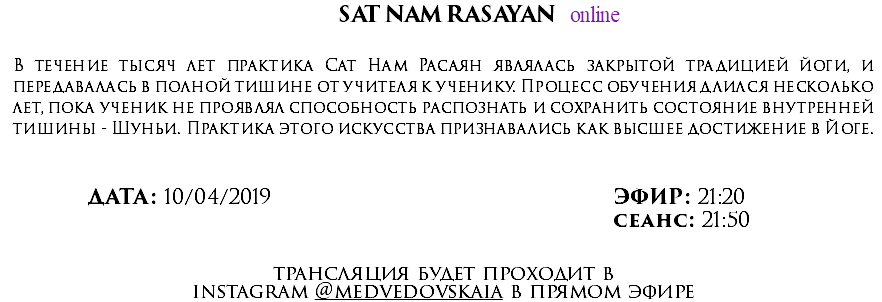
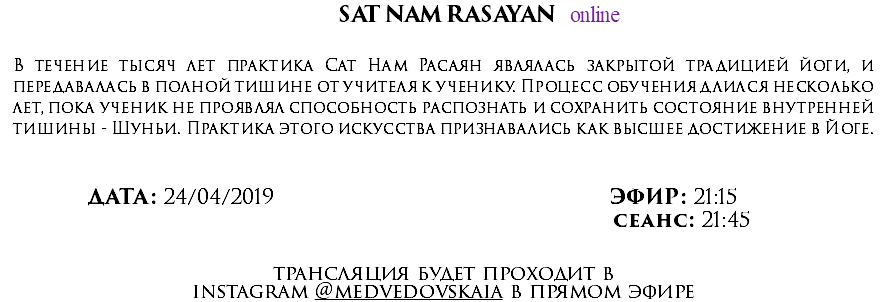
Add files via upload

Changed region(s): [[0.6735, 0.6258, 0.8571, 0.745], [0.1837, 0.6258, 0.3061, 0.6854]]

diff --git a/css/index.css b/css/index.css
@@ -1,1 +1,1 @@
-.version.index{color:#0000F5;background-color:#0FA6AF;}#page{z-index:1;width:1270px;min-height:550.8004999999991px;background-image:none;border-width:0px;border-color:#000000;background-color:transparent;padding-bottom:0px;margin-left:auto;margin-right:auto;}#page_position_content{margin-top:-437px;padding-bottom:62px;width:0.01px;}#ppamphletu1068{z-index:2;width:0.01px;margin-left:-188px;}#pamphletu1068{z-index:2;width:0.01px;height:46px;padding-bottom:540px;position:relative;margin-right:-10000px;margin-top:370px;left:676px;}#u1071{z-index:3;width:62px;height:47px;position:relative;margin-right:-10000px;margin-top:-1px;left:38px;}#u1073{position:absolute;width:60px;height:45px;border-style:solid;border-width:1px;border-color:#999999;background-color:#999999;}#u1073:hover{border-style:solid;border-width:1px;border-color:#6B6B6B;background-color:#999999;width:60px;height:45px;min-height:0px;margin:0px;}#u1073.PamphletThumbSelected{border-width:0px;border-color:transparent;background-color:transparent;width:60px;height:45px;min-height:0px;margin:1px;}#u1075{position:absolute;width:294px;height:154px;background-color:transparent;top:432px;}#u1075popup{z-index:5;}#u1078{z-index:6;width:294px;height:154px;border-width:0px;border-color:transparent;background-color:transparent;margin-right:-10000px;position:relative;}#pu349{z-index:12;width:0.01px;margin-right:-10000px;margin-left:40px;}#u349{z-index:12;width:112px;background-color:transparent;margin-left:62px;position:relative;}#pu944-5{z-index:7;width:0.01px;margin-top:-4px;}#u944-5{z-index:7;display:block;vertical-align:top;margin-bottom:-11px;position:relative;margin-right:-10000px;margin-top:-7px;left:-12px;}#u656{z-index:14;width:227px;min-height:52px;border-width:0px;border-color:transparent;background-color:transparent;opacity:0;-ms-filter:"progid:DXImageTransform.Microsoft.Alpha(Opacity=0)";filter:alpha(opacity=0);position:relative;margin-right:-10000px;left:1px;}.PamphletWidget .ThumbGroup .Thumb,.PamphletNextButton,.PamphletPrevButton,.PamphletCloseButton{cursor:pointer;}#pamphletu974{z-index:15;width:0.01px;height:11px;padding-bottom:1007px;position:relative;margin-right:-10000px;}#u977{z-index:16;width:18px;height:12px;position:relative;margin-right:-10000px;margin-top:-1px;left:-1px;}#u979{position:absolute;width:16px;height:10px;border-style:solid;border-width:1px;border-color:#999999;background-color:#999999;}#u979:hover{border-style:solid;border-width:1px;border-color:#6B6B6B;background-color:#999999;width:16px;height:10px;min-height:0px;margin:0px;}#u979.PamphletThumbSelected{border-width:0px;border-color:transparent;background-color:transparent;width:16px;height:10px;min-height:0px;margin:1px;}.ie #u1073.PamphletThumbSelected,.ie #u979.PamphletThumbSelected{background-color:#FFFFFF;opacity:0.01;-ms-filter:"progid:DXImageTransform.Microsoft.Alpha(Opacity=1)";filter:alpha(opacity=1);}#u981{position:absolute;width:1207px;height:596px;background-color:transparent;top:422px;left:212px;}#u981popup{z-index:18;}#u984{z-index:19;width:1207px;height:596px;border-width:0px;border-color:transparent;background-color:transparent;margin-right:-10000px;position:relative;}#pu334{z-index:20;width:0.01px;margin-right:-10000px;margin-top:29px;}#u334{z-index:20;width:294px;background-color:transparent;position:relative;margin-right:-10000px;margin-top:196px;}#u294{z-index:22;width:34px;background-color:transparent;position:relative;margin-right:-10000px;left:806px;}#u716{z-index:24;width:319px;height:442px;opacity:1;-ms-filter:"progid:DXImageTransform.Microsoft.Alpha(Opacity=100)";filter:alpha(opacity=100);position:relative;margin-right:-10000px;margin-top:125px;left:888px;background:transparent url("../images/dsc_00931_00000.png?crc=4126078890") no-repeat left top;background-size:contain;}#u834{z-index:25;width:261px;border-width:0px;border-color:transparent;background-color:transparent;position:relative;margin-right:-10000px;margin-top:161px;left:491px;}#pu818-13{z-index:26;width:0.01px;margin-right:-10000px;}#u818-13{z-index:26;display:block;vertical-align:top;position:relative;margin-right:-10000px;}#u823{z-index:39;width:81px;height:3px;background-color:#FFACA9;opacity:0.82;-ms-filter:"progid:DXImageTransform.Microsoft.Alpha(Opacity=82)";filter:alpha(opacity=82);position:relative;margin-right:-10000px;margin-top:18px;left:173px;}#u344-4{z-index:40;display:block;vertical-align:top;position:relative;margin-right:-10000px;margin-top:313px;left:345px;}#u170-28{z-index:44;display:block;vertical-align:top;position:relative;margin-right:-10000px;left:175px;}.css_verticalspacer .verticalspacer{height:calc(100vh - 642px);}#muse_css_mq,.html{background-color:#FFFFFF;}body{position:relative;min-width:1270px;}
+.version.index{color:#00000F;background-color:#981E0D;}#page{z-index:1;width:1270px;min-height:550.9005000000002px;background-image:none;border-width:0px;border-color:#000000;background-color:transparent;padding-bottom:0px;margin-left:auto;margin-right:auto;}#page_position_content{margin-top:-437px;padding-bottom:62px;width:0.01px;}#ppamphletu1068{z-index:2;width:0.01px;margin-left:-188px;}#pamphletu1068{z-index:2;width:0.01px;height:46px;padding-bottom:540px;position:relative;margin-right:-10000px;margin-top:370px;left:676px;}#u1071{z-index:3;width:62px;height:47px;position:relative;margin-right:-10000px;margin-top:-1px;left:38px;}#u1073{position:absolute;width:60px;height:45px;border-style:solid;border-width:1px;border-color:#999999;background-color:#999999;}#u1073:hover{border-style:solid;border-width:1px;border-color:#6B6B6B;background-color:#999999;width:60px;height:45px;min-height:0px;margin:0px;}#u1073.PamphletThumbSelected{border-width:0px;border-color:transparent;background-color:transparent;width:60px;height:45px;min-height:0px;margin:1px;}#u1075{position:absolute;width:294px;height:154px;background-color:transparent;top:432px;}#u1075popup{z-index:5;}#u1078{z-index:6;width:294px;height:154px;border-width:0px;border-color:transparent;background-color:transparent;margin-right:-10000px;position:relative;}#pu349{z-index:12;width:0.01px;margin-right:-10000px;margin-left:40px;}#u349{z-index:12;width:112px;background-color:transparent;margin-left:62px;position:relative;}#pu944-5{z-index:7;width:0.01px;margin-top:-4px;}#u944-5{z-index:7;display:block;vertical-align:top;margin-bottom:-11px;position:relative;margin-right:-10000px;margin-top:-7px;left:-12px;}#u656{z-index:14;width:227px;min-height:52px;border-width:0px;border-color:transparent;background-color:transparent;opacity:0;-ms-filter:"progid:DXImageTransform.Microsoft.Alpha(Opacity=0)";filter:alpha(opacity=0);position:relative;margin-right:-10000px;left:1px;}.PamphletWidget .ThumbGroup .Thumb,.PamphletNextButton,.PamphletPrevButton,.PamphletCloseButton{cursor:pointer;}#pamphletu974{z-index:15;width:0.01px;height:11px;padding-bottom:1011px;position:relative;margin-right:-10000px;}#u977{z-index:16;width:18px;height:12px;position:relative;margin-right:-10000px;margin-top:-1px;left:-1px;}#u979{position:absolute;width:16px;height:10px;border-style:solid;border-width:1px;border-color:#999999;background-color:#999999;}#u979:hover{border-style:solid;border-width:1px;border-color:#6B6B6B;background-color:#999999;width:16px;height:10px;min-height:0px;margin:0px;}#u979.PamphletThumbSelected{border-width:0px;border-color:transparent;background-color:transparent;width:16px;height:10px;min-height:0px;margin:1px;}.ie #u1073.PamphletThumbSelected,.ie #u979.PamphletThumbSelected{background-color:#FFFFFF;opacity:0.01;-ms-filter:"progid:DXImageTransform.Microsoft.Alpha(Opacity=1)";filter:alpha(opacity=1);}#u981{position:absolute;width:1207px;height:600px;background-color:transparent;top:422px;left:212px;}#u981popup{z-index:18;}#u984{z-index:19;width:1207px;height:596px;border-width:0px;border-color:transparent;background-color:transparent;padding-bottom:4px;margin-right:-10000px;position:relative;}#pu334{z-index:20;width:0.01px;margin-right:-10000px;margin-top:29px;}#u334{z-index:20;width:294px;background-color:transparent;position:relative;margin-right:-10000px;margin-top:196px;}#u294{z-index:22;width:34px;background-color:transparent;position:relative;margin-right:-10000px;left:806px;}#u716{z-index:24;width:319px;height:442px;opacity:1;-ms-filter:"progid:DXImageTransform.Microsoft.Alpha(Opacity=100)";filter:alpha(opacity=100);position:relative;margin-right:-10000px;margin-top:125px;left:888px;background:transparent url("../images/dsc_00931_00000.png?crc=4126078890") no-repeat left top;background-size:contain;}#u834{z-index:25;width:261px;border-width:0px;border-color:transparent;background-color:transparent;position:relative;margin-right:-10000px;margin-top:161px;left:491px;}#pu818-13{z-index:26;width:0.01px;margin-right:-10000px;}#u818-13{z-index:26;display:block;vertical-align:top;position:relative;margin-right:-10000px;}#u823{z-index:39;width:81px;height:3px;background-color:#FFACA9;opacity:0.82;-ms-filter:"progid:DXImageTransform.Microsoft.Alpha(Opacity=82)";filter:alpha(opacity=82);position:relative;margin-right:-10000px;margin-top:18px;left:173px;}#u344-4{z-index:40;display:block;vertical-align:top;position:relative;margin-right:-10000px;margin-top:313px;left:345px;}#u170-28{z-index:44;display:block;vertical-align:top;position:relative;margin-right:-10000px;left:180px;}.css_verticalspacer .verticalspacer{height:calc(100vh - 646px);}#muse_css_mq,.html{background-color:#FFFFFF;}body{position:relative;min-width:1270px;}

diff --git a/index.html b/index.html
@@ -22,7 +22,7 @@ if(typeof Muse == "undefined") window.Muse = {}; window.Muse.assets = {"required
   <title>СТРАНИЦА ОПЛАТЫ</title>
   <!-- CSS -->
   <link rel="stylesheet" type="text/css" href="css/site_global.css?crc=444006867"/>
-  <link rel="stylesheet" type="text/css" href="css/index.css?crc=4111443631" id="pagesheet"/>
+  <link rel="stylesheet" type="text/css" href="css/index.css?crc=261627405" id="pagesheet"/>
    </head>
  <body>
 
@@ -72,19 +72,19 @@ if(typeof Muse == "undefined") window.Muse = {}; window.Muse.assets = {"required
           <div class="museBGSize grpelem" id="u716"><!-- simple frame --></div>
           <div class="clearfix grpelem" id="u834"><!-- group -->
            <div class="clearfix grpelem" id="pu818-13"><!-- group -->
-            <img class="grpelem" id="u818-13" alt="&nbsp;2000 руб. 1300 руб." width="261" height="60" src="images/u818-13.png?crc=4239331902"/><!-- rasterized frame -->
+            <img class="grpelem" id="u818-13" alt="&nbsp;2000 руб. 1500 руб." width="261" height="60" src="images/u818-13.png?crc=527938199"/><!-- rasterized frame -->
             <div class="grpelem" id="u823"><!-- simple frame --></div>
            </div>
           </div>
           <img class="grpelem" id="u344-4" alt="ЗАПИСАТЬСЯ НА ЦЕЛИТЕЛЬНЫЙ СЕАНС" width="533" height="101" src="images/u344-4.png?crc=195814626"/><!-- rasterized frame -->
-          <img class="grpelem" id="u170-28" alt="&nbsp;SAT NAM RASAYAN online В течение тысяч лет практика Сат Нам Расаян являлась закрытой традицией йоги, и передавалась в полной тишине от учителя к ученику. Процесс обучения длился несколько лет, пока ученик не проявлял способность распознать и сохранить состояние внутренней тишины - Шуньи. Практика этого искусства признавались как высшее достижение в Йоге. ДАТА: 10/04/2019 ЭФИР: 21:20 сеанс: 21:50 трансляция будет проходит в instagram @medvedovskaia в прямом эфире" width="882" height="302" src="images/u170-28.png?crc=34031144"/><!-- rasterized frame -->
+          <img class="grpelem" id="u170-28" alt="&nbsp;SAT NAM RASAYAN online В течение тысяч лет практика Сат Нам Расаян являлась закрытой традицией йоги, и передавалась в полной тишине от учителя к ученику. Процесс обучения длился несколько лет, пока ученик не проявлял способность распознать и сохранить состояние внутренней тишины - Шуньи. Практика этого искусства признавались как высшее достижение в Йоге. ДАТА: 24/04/2019 ЭФИР: 21:15 сеанс: 21:45 трансляция будет проходит в instagram @medvedovskaia в прямом эфире" width="882" height="302" src="images/u170-28.png?crc=449528801"/><!-- rasterized frame -->
          </div>
         </div>
        </div>
       </div>
      </div>
     </div>
-    <div class="verticalspacer" data-offset-top="581" data-content-above-spacer="581" data-content-below-spacer="61"></div>
+    <div class="verticalspacer" data-offset-top="585" data-content-above-spacer="585" data-content-below-spacer="61"></div>
    </div>
   </div>
   <!-- Other scripts -->

diff --git a/phone/index.html b/phone/index.html
@@ -29,10 +29,10 @@ if(typeof Muse == "undefined") window.Muse = {}; window.Muse.assets = {"required
       <img class="block" id="u1378_img" src="../images/260112x112.jpg?crc=4238458482" alt="" width="112" height="112"/>
      </div>
      <div class="museBGSize grpelem" id="u1267"><!-- simple frame --></div>
-     <img class="grpelem" id="u1289-26" alt="&nbsp;SAT NAM RASAYAN online В течение тысяч лет практика Сат Нам Расаян являлась закрытой традицией йоги, и передавалась в полной тишине от учителя к ученику. Процесс обучения длился несколько лет, пока ученик не проявлял способность распознать и сохранить состояние внутренней тишины - Шуньи. Практика этого искусства признавались как высшее достижение в Йоге. ДАТА: 10/04/2019 ЭФИР: 21:20 СЕАНС: 21:50 трансляция будет проходит в instagram @medvedovskaia в прямом эфире" width="364" height="379" src="../images/u1289-26.png?crc=125653834"/><!-- rasterized frame -->
+     <img class="grpelem" id="u1289-26" alt="&nbsp;SAT NAM RASAYAN online В течение тысяч лет практика Сат Нам Расаян являлась закрытой традицией йоги, и передавалась в полной тишине от учителя к ученику. Процесс обучения длился несколько лет, пока ученик не проявлял способность распознать и сохранить состояние внутренней тишины - Шуньи. Практика этого искусства признавались как высшее достижение в Йоге. ДАТА: 24/04/2019 ЭФИР: 21:15 СЕАНС: 21:45 трансляция будет проходит в instagram @medvedovskaia в прямом эфире" width="364" height="379" src="../images/u1289-26.png?crc=3959958291"/><!-- rasterized frame -->
      <div class="clearfix grpelem" id="u1300"><!-- group -->
       <div class="clearfix grpelem" id="pu1302-13"><!-- group -->
-       <img class="grpelem" id="u1302-13" alt="&nbsp;2000 р Руб. 1300 руб." width="139" height="31" src="../images/u1302-13.png?crc=3936805849"/><!-- rasterized frame -->
+       <img class="grpelem" id="u1302-13" alt="&nbsp;2000 р Руб. 1500 руб." width="139" height="31" src="../images/u1302-13.png?crc=3948134378"/><!-- rasterized frame -->
        <div class="grpelem" id="u1301"><!-- simple frame --></div>
       </div>
      </div>
